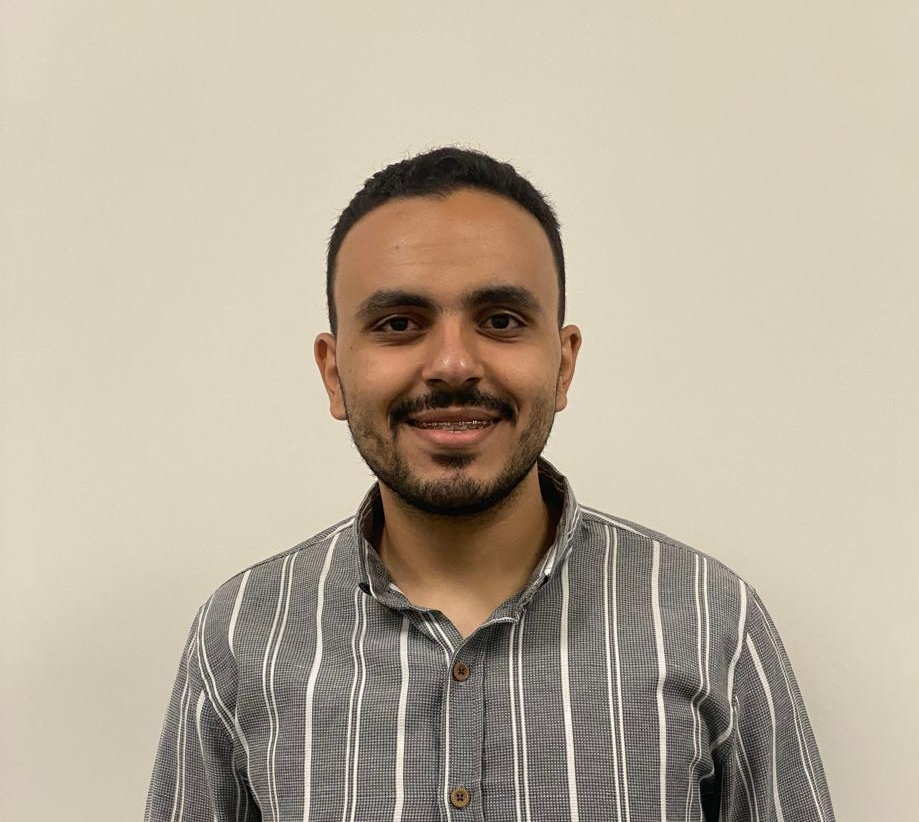
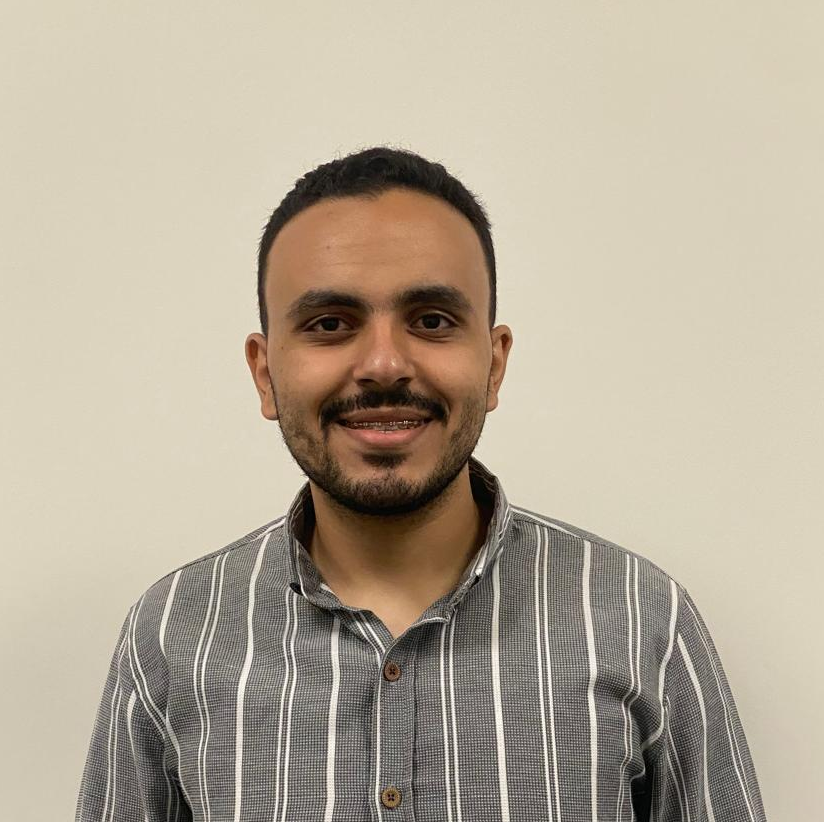
added mock profile when the profile isn't connected to database

Changed region(s): [[0.091, 0.1521, 0.9405, 1.0]]

diff --git a/src/pages/ProfilePage.jsx b/src/pages/ProfilePage.jsx
@@ -23,51 +23,20 @@ export default function ProfilePage() {
         } else {
           // Default profile (your original data)
           setProfile({
-            displayName: "Beshoy Fomail",
-            username: "@beshoy-13",
-            bio: '"I think therefore I am"',
-            email: "beshoyfomail@biblios.com",
-            joinedDate: "November 2024",
-            location: "Cairo, Egypt",
-            photoURL: "../../public/images/profile.jpg",
+            displayName: "Unknown User",
+            username: "@Anonymous",
+            bio: '"I Don\'t even have a bio yet"',
+            email: "anonymous@biblios.com",
+            joinedDate: "didn't join yet",
+            location: "The Earth",
+            photoURL: "../../public/images/profile0.jpg",
             stats: {
-              booksRead: 42,
-              reviews: 18,
-              following: 127,
-              followers: 89
+              booksRead: 0,
+              reviews: 0,
+              following: 0,
+              followers: 0
             },
-            favoriteBooks: [
-              {
-                id: 1,
-                title: "Metamorphosis",
-                author: "Franz Kafka",
-                cover: "../../public/images/metamorphosis.jpg"
-              },
-              {
-                id: 2,
-                title: "A Clockwork Orange",
-                author: "Anthony Burgess",
-                cover: "../../public/images/AClockworkOrange.jpg"
-              },
-              {
-                id: 3,
-                title: "Harry Potter and the prisoner of Azkaban",
-                author: "J.K. Rowling",
-                cover: "../../public/images/harryPotter.jpg"
-              },
-              {
-                id: 4,
-                title: "Hunger Games",
-                author: "Suzanne Collins",
-                cover: "../../public/images/hungerGames.jpg"
-              },
-              {
-                id: 5,
-                title: "1984",
-                author: "george orwell",
-                cover: "../../public/images/1984.jpg"
-              }
-            ]
+            favoriteBooks: []
           });
         }
         setLoading(false);
@@ -245,17 +214,37 @@ export default function ProfilePage() {
             </h2>
           </div>
           <div className="favorites-grid">
-            {profile.favoriteBooks.map(book => (
-              <div key={book.id} className="book-card">
-                <div className="book-cover">
-                  <img src={book.cover} alt={book.title} />
+            {profile.favoriteBooks && profile.favoriteBooks.length > 0 ? (
+              profile.favoriteBooks.map(book => (
+                <div key={book.id} className="book-card">
+                  <div className="book-cover">
+                    <img src={book.cover} alt={book.title} />
+                  </div>
+                  <div className="book-info">
+                    <h3 className="book-title">{book.title}</h3>
+                    <p className="book-author">{book.author}</p>
+                  </div>
                 </div>
-                <div className="book-info">
-                  <h3 className="book-title">{book.title}</h3>
-                  <p className="book-author">{book.author}</p>
+              ))
+            ) : (
+              <div style={{
+                gridColumn: '1 / -1',
+                textAlign: 'center',
+                padding: '3rem 1rem',
+                color: '#6B7280',
+                fontSize: '1.125rem'
+              }}>
+                <div>
+                  <i className="fas fa-book" style={{
+                    fontSize: '3rem',
+                    marginBottom: '1rem',
+                    opacity: 0.3,
+                    display: 'block'
+                  }}></i>
+                  <p style={{ margin: 0 }}>No favourite books yet!</p>
                 </div>
               </div>
-            ))}
+            )}
           </div>
         </div>
       </div>

diff --git a/src/data/userProfiles.js b/src/data/userProfiles.js
@@ -36,9 +36,9 @@ const userProfiles = {
             },
             {
                 id: 4,
-                title: "Metamorphosis",
-                author: "franz Kafka",
-                cover: "../../public/images/metamorphosis.jpg"
+                title: "Harry Potter and the prisoner of azkaban",
+                author: "J.K. Rowling",
+                cover: "../../public/images/harryPotter.jpg"
             },
             {
                 id: 5,
